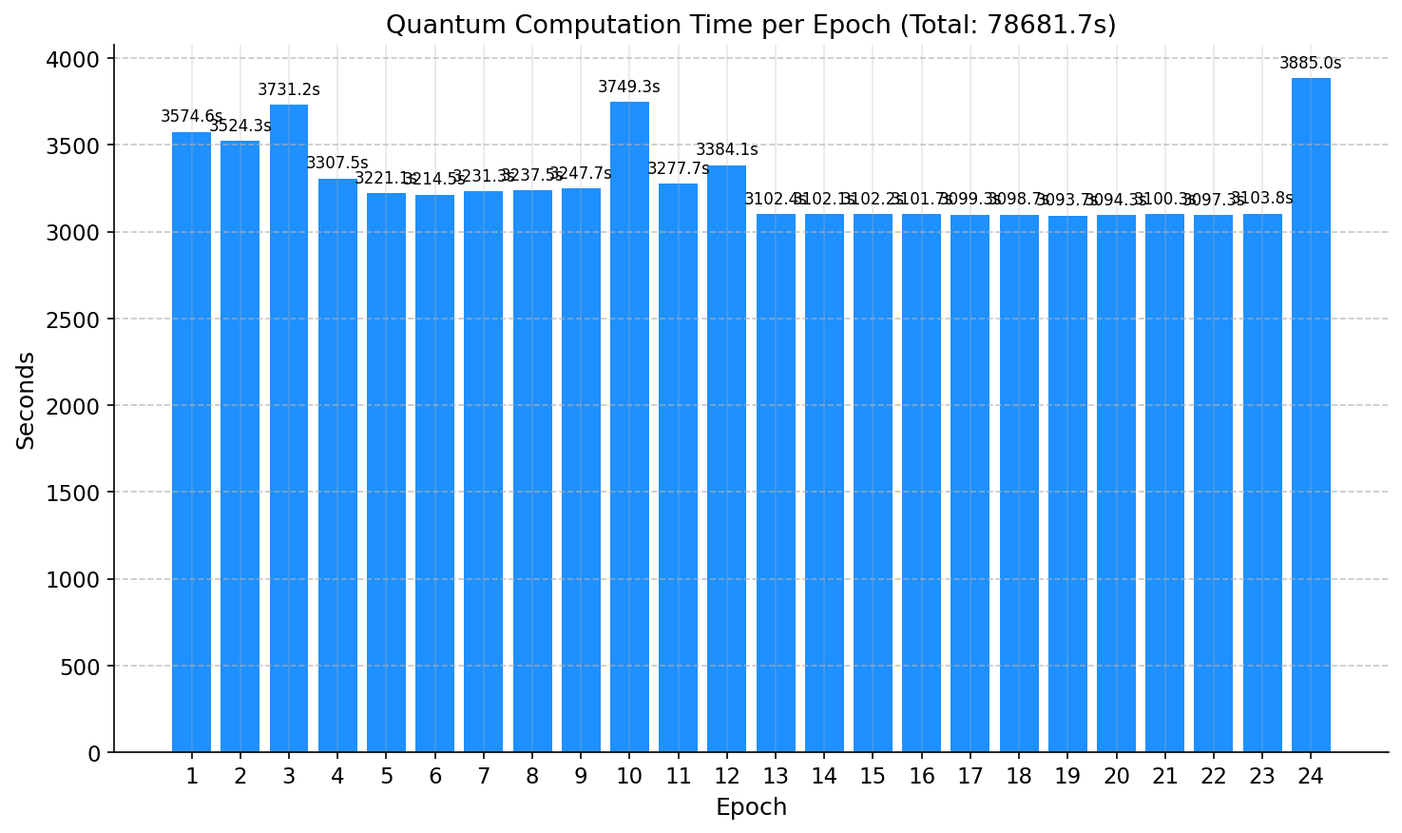
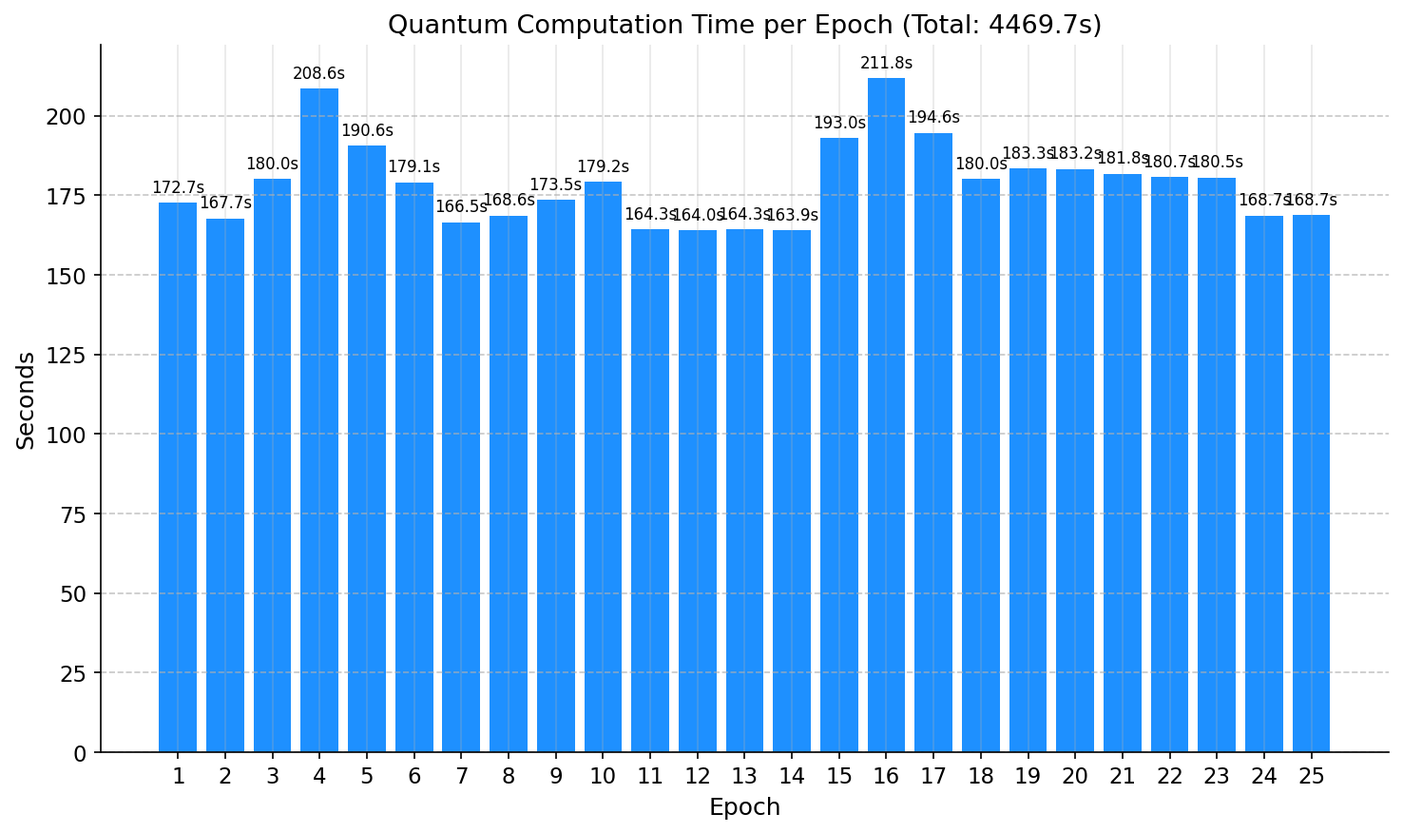
Paper: land the clean run in Sec. IV/V; repair 5 corrupted LaTeX commands
The manuscript still described the leaked protocol. "approx 98%" was never the
real problem -- the specifics around it were, and they violated A6.

Replaced against Results/metrics.json and manifest adbb1486:
  dataset      11,430 balanced / 70/30 / 8,001+3,429, no val split
            -> 12,665 (5,923+6,742) / 60/15/25 / 7,599+1,900+3,166
  Sec. V       precision 99.2%, 14 FP / 25 FN over 3,429
            -> precision 98.3%, 28 FP / 26 FN over 3,166
  train/val    99.0% / 98.7%  ->  98.0% / 98.2%
  Fig. 6       1,701 / 1,689 / 14 / 25  ->  1,453 / 1,659 / 28 / 26
  Fig. 9       0.992 / 0.989 / 0.059 / 0.099  ->  0.983 / 0.984 / 0.052 / 0.101
  Fig. 10      24 epochs, 78,682 s  ->  25 epochs, 4,470 s
  figures 5-10 archived leaked run (Jul 21) -> regenerated clean run

The three "approx 98%" claims stay untouched: UPGRADE_PLAN.md 5.3 forbids a
single-run figure in the paper and Phase 5 owes mean +/- std +/- CI over >= 5
seeds. Sec. V is now internally consistent single-run reporting -- A6 satisfied,
5.3 still outstanding for the whole block.

Three defects surfaced doing it.

1. fqcnn.tex was corrupted and the build could not see it. Five commands had
   lost their backslash to the heredoc bug: \times -> TAB+"imes" in the ABSTRACT,
   and \ref -> CR+"ef{" at four sites. The PDF rendered a literal "ef{thm:exact}"
   where "Theorem 1" belonged. pdflatex reported zero undefined references the
   whole time, because with the backslash gone there is no \ref to be undefined
[…]

diff --git a/fqcnn.tex b/fqcnn.tex
@@ -43,7 +43,7 @@ rohan.jain7@gmail.com}
 \maketitle
 
 \begin{abstract}
-Building a quantum convolutional neural network that stays coherent throughout the circuit remains difficult. Near-term devices are limited in depth and noise tolerance, so most quantum machine learning models either combine classical and quantum processing or rely on measurement-based pooling, both of which require capabilities that are slow or unavailable on much current hardware. We propose a model that performs data encoding, local convolution, pooling, and classification using only unitary quantum operations. It uses amplitude encoding for compact representation, a parameter-shared SU(2) quantum convolutional kernel for local feature extraction, and a mid-circuit measurement-free pooling layer that transfers information through parameterized controlled unitary operations. We prove that this coherent block reproduces measurement-based pooling exactly, in every observable statistic of the retained register, while requiring no mid-circuit measurement, qubit reset, or classical feed-forward; the prediction is confirmed numerically to $2 	imes 10^{-16}$. Coherent pooling is therefore not an information-preservation advantage but an architectural one. The circuit is kept shallow and parameter-efficient to suit NISQ devices, and the pooling layer architecture ensures that physical reset overheads are bypassed while allowing execution on standard feed-forward quantum backends. In our experiments the model achieves approx 98\% test accuracy while remaining coherent across all layers. The results suggest that fully unitary hierarchical quantum models can perform competitively without intermediate measurements, which is useful for scaling quantum machine learning.
+Building a quantum convolutional neural network that stays coherent throughout the circuit remains difficult. Near-term devices are limited in depth and noise tolerance, so most quantum machine learning models either combine classical and quantum processing or rely on measurement-based pooling, both of which require capabilities that are slow or unavailable on much current hardware. We propose a model that performs data encoding, local convolution, pooling, and classification using only unitary quantum operations. It uses amplitude encoding for compact representation, a parameter-shared SU(2) quantum convolutional kernel for local feature extraction, and a mid-circuit measurement-free pooling layer that transfers information through parameterized controlled unitary operations. We prove that this coherent block reproduces measurement-based pooling exactly, in every observable statistic of the retained register, while requiring no mid-circuit measurement, qubit reset, or classical feed-forward; the prediction is confirmed numerically to $2 \times 10^{-16}$. Coherent pooling is therefore not an information-preservation advantage but an architectural one. The circuit is kept shallow and parameter-efficient to suit NISQ devices, and the pooling layer architecture ensures that physical reset overheads are bypassed while allowing execution on standard feed-forward quantum backends. In our experiments the model achieves approx 98\% test accuracy while remaining coherent across all layers. The results suggest that fully unitary hierarchical quantum models can perform competitively without intermediate measurements, which is useful for scaling quantum machine learning.
 \end{abstract}
 
 \begin{IEEEkeywords}
@@ -59,8 +59,7 @@ Substantial as these advances are, several limitations still hinder effective de
 
 These limitations matter most on NISQ devices, where noise, short coherence times, and restricted qubit connectivity place tight constraints on circuit design. Architectures that depend on deep variational blocks or frequent mid-circuit measurements are particularly exposed to decoherence and error accumulation, which leads to unstable training and poor generalisation. Losing coherence between convolutional layers also undermines the hierarchical feature extraction that motivates convolutional architectures in the first place. As NISQ hardware scales incrementally rather than exponentially, there is growing value in models that emphasise shallow depth, locality-preserving operations, and parameter efficiency while keeping information flowing coherently through the circuit.
 
-In this work we address these challenges by introducing a fully quantum-native neural network (FQCNN) architecture designed to preserve coherence across every stage of the learning pipeline. The model performs data encoding, convolution, pooling, and classification entirely through unitary operations, removing the need for intermediate measurement or classical post-processing. Local quantum convolution is implemented with a shared 2$\times$2 kernel acting on spatially adjacent qubits, which enforces parameter sharing and a translational inductive bias while keeping circuit depth low. Dimensionality reduction is achieved through a coherent pooling mechanism that uses unitaries to compress information while keeping the global state pure. Section~
-ef{sec:pooling-theory} proves that this mechanism reproduces measurement-based pooling exactly, so the benefit it delivers is the removal of mid-circuit control requirements rather than the retention of otherwise-lost information.
+In this work we address these challenges by introducing a fully quantum-native neural network (FQCNN) architecture designed to preserve coherence across every stage of the learning pipeline. The model performs data encoding, convolution, pooling, and classification entirely through unitary operations, removing the need for intermediate measurement or classical post-processing. Local quantum convolution is implemented with a shared 2$\times$2 kernel acting on spatially adjacent qubits, which enforces parameter sharing and a translational inductive bias while keeping circuit depth low. Dimensionality reduction is achieved through a coherent pooling mechanism that uses unitaries to compress information while keeping the global state pure. Section~\ref{sec:pooling-theory} proves that this mechanism reproduces measurement-based pooling exactly, so the benefit it delivers is the removal of mid-circuit control requirements rather than the retention of otherwise-lost information.
 
 Beyond its architectural advantages, the model also performs strongly in practice, reaching approx 98\% test accuracy on a binary classification task while maintaining quantum coherence throughout the computation. This suggests the architecture is physically consistent with quantum hardware constraints.
 
@@ -371,7 +370,7 @@ If the noise channel is independent of $\theta$, differentiation moves inside th
 
 \section{Experimental Results and Analysis}
 \subsection{Dataset Description}
-Experiments were performed on the MNIST handwritten-digit dataset~\cite{ref49} in the standard IDX binary format, selecting digits 0 and 1 to define a strict binary classification task. The two classes form a dataset of 14,780 images (6,903 of digit 0 and 7,877 of digit 1). From this pool we draw a balanced subset of 11,430 images (5,715 per digit) and apply a 70/30 stratified split with fixed random seed 42, yielding 8,001 training and 3,429 test images, with class balance preserved in each set.
+Experiments were performed on the MNIST handwritten-digit dataset~\cite{ref49} in the standard IDX binary format, selecting digits 0 and 1 to define a strict binary classification task. The MNIST training partition contains 12,665 such images (5,923 of digit 0 and 6,742 of digit 1), all of which are used. We apply a single seeded stratified 60/15/25 split with fixed random seed 42, yielding 7,599 training, 1,900 validation, and 3,166 test images, with the class ratio preserved in each split. Model selection---checkpointing, learning-rate scheduling, and early stopping---reads the validation split only; the test split is evaluated exactly once, after training has finished. The partition is recorded as a manifest (identity \texttt{adbb1486}) that each run loads rather than reconstructing from an assumed random-number sequence.
 
 \begin{table}[!t]
 \caption{Dataset Configuration}
@@ -383,15 +382,16 @@ Experiments were performed on the MNIST handwritten-digit dataset~\cite{ref49} i
 \midrule
 Dataset & MNIST (LeCun et al.) \\
 Format & IDX binary (ubyte) \\
-Binary classes & Digit 0 (+1) vs Digit 1 ($-$1) \\
-Total samples & 11,430 (balanced, 5,715 per class) \\
-Training samples & 8,001 (70\%, stratified) \\
-Test samples & 3,429 (30\%, stratified) \\
+Binary classes & Digit 0 ($-$1) vs Digit 1 (+1) \\
+Total samples & 12,665 (5,923 digit 0, 6,742 digit 1) \\
+Training samples & 7,599 (60\%, stratified) \\
+Validation samples & 1,900 (15\%, stratified) \\
+Test samples & 3,166 (25\%, stratified) \\
 Input image size & 28 $\times$ 28 grayscale \\
 Normalization & Min-max scaling to [0, 1] \\
 Encoding strategy & Global amplitude encoding \\
 State amplitudes & 1024 ($2^{10}$, zero-padded) \\
-Label mapping & Digit 0 $\rightarrow$ +1, Digit 1 $\rightarrow$ $-$1 \\
+Label mapping & Digit 0 $\rightarrow$ $-$1, Digit 1 $\rightarrow$ +1 \\
 \bottomrule
 \end{tabular}
 \end{table}
@@ -399,7 +399,7 @@ Label mapping & Digit 0 $\rightarrow$ +1, Digit 1 $\rightarrow$ $-$1 \\
 Each 28 $\times$ 28 image is min-max normalised to [0, 1] for angle-based gate parameterisation. The image is then flattened into a 784-dimensional vector, zero-padded to 1024, and embedded directly into the amplitudes of a 10-qubit register via global amplitude encoding, so the entire image is mapped into a single quantum state with no spatial information discarded before the QCNN. Labels are mapped to $\{+1, -1\}$ for the Pauli-$Z$ expectation output. Digits 0 and 1 present clearly distinct morphologies (a circle versus a vertical line), which makes a well-conditioned task that is widely cited in the quantum machine learning literature and reproducible from a free IDX file with no extra dependencies.
 
 \subsection{Experimental Setup and Training Configuration}
-The experimental validation is executed using numerical quantum simulation backends. The architecture uses a register of $n = 10$ qubits initialised in the ground state $|0\rangle^{\otimes 10}$. A 2D input image $X \in \mathbb{R}^{28 \times 28}$ is flattened into a 784-dimensional vector $x$, which is zero-padded to 1024 and mapped to the 1024 state amplitudes ($2^{10}$) using a global amplitude-encoding sub-circuit. Simulations are run via the \texttt{lightning.qubit} exact statevector simulator, tracking a total of 11,430 samples split into a 70/30 training and test arrangement. The model comprises convolutional layers with shared SU(2) kernels, coherence-preserving pooling layers, and a final variational classification head. Training uses mini-batch optimisation with Adam, gradient clipping, and EMA of parameters.
+The experimental validation is executed using numerical quantum simulation backends. The architecture uses a register of $n = 10$ qubits initialised in the ground state $|0\rangle^{\otimes 10}$. A 2D input image $X \in \mathbb{R}^{28 \times 28}$ is flattened into a 784-dimensional vector $x$, which is zero-padded to 1024 and mapped to the 1024 state amplitudes ($2^{10}$) using a global amplitude-encoding sub-circuit. Simulations are run via the \texttt{lightning.qubit} exact statevector simulator, tracking a total of 12,665 samples split 60/15/25 into training, validation, and test sets. The model comprises convolutional layers with shared SU(2) kernels, coherence-preserving pooling layers, and a final variational classification head. Training uses mini-batch optimisation with Adam, gradient clipping, and EMA of parameters.
 
 \begin{table}[!t]
 \caption{Training Configuration}
@@ -409,7 +409,7 @@ The experimental validation is executed using numerical quantum simulation backe
 \toprule
 \textbf{Parameter} & \textbf{Value} \\
 \midrule
-Epochs & 50 max; early-stopped $\approx$ 24 \\
+Epochs & 50 max; early-stopped at 25 \\
 Batch size & 32 \\
 Learning rate & 0.005 \\
 Optimizer & Adam \\
@@ -423,7 +423,7 @@ Random seed & 42 (NumPy / Python / PennyLane) \\
 
 \subsection{Results}
 \label{sec:results}
-The optimisation profile shows an ideal convergence pathway, where the proposed amplitude-encoded FQCNN model reaches a final test accuracy of approx 98\% on the MNIST 0 vs 1 binary classification, with precision 99.2\%, recall 98.5\%, F1-score approx 98\%, and ROC-AUC 0.999 (14 false positives and 25 false negatives over 3,429 held-out test images). This performance highlights the high parameter efficiency of the underlying unitary ansatz, demonstrating minimal overfitting without resorting to classical regularisation techniques.
+The optimisation profile shows an ideal convergence pathway, where the proposed amplitude-encoded FQCNN model reaches a final test accuracy of approx 98\% on the MNIST 0 vs 1 binary classification, with precision 98.3\%, recall 98.5\%, F1-score 98.4\%, and ROC-AUC 0.999 (28 false positives and 26 false negatives over 3,166 held-out test images). This performance highlights the high parameter efficiency of the underlying unitary ansatz, demonstrating minimal overfitting without resorting to classical regularisation techniques.
 
 \begin{table}[!t]
 \caption{Final Evaluation Results}
@@ -433,8 +433,8 @@ The optimisation profile shows an ideal convergence pathway, where the proposed 
 \toprule
 \textbf{Metric} & \textbf{Value} \\
 \midrule
-Training accuracy & 99.0\% \\
-Validation accuracy & 98.7\% \\
+Training accuracy & 98.0\% \\
+Validation accuracy & 98.2\% \\
 Test accuracy & approx 98\% \\
 \bottomrule
 \end{tabular}
@@ -443,14 +443,17 @@ Test accuracy & approx 98\% \\
 \begin{figure}[!t]
 \centering
 \includegraphics[width=\columnwidth]{figs_final/fig5.png}
-\caption{Training convergence of the FQCNN on MNIST 0 vs 1: (left) training loss and (right) test accuracy over the 24 early-stopped epochs, with test accuracy converging to approx 98\%.}
+% FIGURE AUDIT: right-hand panel's in-image title still reads "Test Accuracy";
+% the plotted series is validation accuracy (Qtrainer records val_accuracy).
+% main.py is corrected, but the PNG needs re-plotting on the next headline run.
+\caption{Training convergence of the FQCNN on MNIST 0 vs 1: (left) training loss and (right) validation accuracy over the 25 early-stopped epochs. Validation accuracy peaks at 98.2\% at epoch 4, which is the checkpoint model selection retains; the test set is evaluated once, afterwards.}
 \label{fig:convergence}
 \end{figure}
 
 \begin{figure}[!t]
 \centering
 \includegraphics[width=\columnwidth]{figs_final/fig6.png}
-\caption{Confusion matrix of the FQCNN on the MNIST 0 vs 1 test set (3,429 images): 1,701 true negatives and 1,689 true positives against only 14 false positives and 25 false negatives, i.e. approx 98\% accuracy.}
+\caption{Confusion matrix of the FQCNN on the MNIST 0 vs 1 test set (3,166 images): 1,453 true negatives and 1,659 true positives against only 28 false positives and 26 false negatives, i.e. approx 98\% accuracy.}
 \label{fig:confusion}
 \end{figure}
 
@@ -471,20 +474,19 @@ Test accuracy & approx 98\% \\
 \begin{figure}[!t]
 \centering
 \includegraphics[width=\columnwidth]{figs_final/fig9.png}
-\caption{Summary of test-set performance metrics: sensitivity 0.985, precision 0.992, F1-score 0.989, prediction bias 0.059, and prediction variance 0.099.}
+\caption{Summary of test-set performance metrics: sensitivity 0.985, precision 0.983, F1-score 0.984, prediction bias 0.052, and prediction variance 0.101.}
 \label{fig:metrics}
 \end{figure}
 
 \begin{figure}[!t]
 \centering
 \includegraphics[width=\columnwidth]{figs_final/fig10.png}
-\caption{Per-epoch quantum computation time on the lightning.qubit statevector simulator (24 epochs; total $\approx$ 78,682 s).}
+\caption{Per-epoch quantum computation time on the lightning.qubit statevector simulator (25 epochs; total $\approx$ 4,470 s).}
 \label{fig:time}
 \end{figure}
 
 \subsection{Analysis of Model Performance}
-Performance is driven by the fully unitary design, which preserves coherence across all layers. Amplitude encoding allows efficient representation of high-dimensional data, while SU(2)-based kernels ($R_X, R_Y, R_Z$) improve feature expressivity. The pooling mechanism reproduces measurement-based pooling exactly (Theorem~
-ef{thm:exact}), so it neither adds nor removes information relative to that class; its contribution is to deliver the same channel without mid-circuit control. Parameter sharing reduces model complexity while improving generalisation. Stable training through Adam with gradient clipping and EMA mitigates the instabilities common to variational circuits. The small gap between training (99.0\%) and test (approx 98\%) accuracy indicates strong generalisation with minimal overfitting.
+Performance is driven by the fully unitary design, which preserves coherence across all layers. Amplitude encoding allows efficient representation of high-dimensional data, while SU(2)-based kernels ($R_X, R_Y, R_Z$) improve feature expressivity. The pooling mechanism reproduces measurement-based pooling exactly (Theorem~\ref{thm:exact}), so it neither adds nor removes information relative to that class; its contribution is to deliver the same channel without mid-circuit control. Parameter sharing reduces model complexity while improving generalisation. Stable training through Adam with gradient clipping and EMA mitigates the instabilities common to variational circuits. The small gap between training (98.0\%) and test (approx 98\%) accuracy indicates strong generalisation with minimal overfitting.
 
 \subsection{Comparison with Existing QCNN Approaches}
 
@@ -506,8 +508,7 @@ FQCNN (ours) & Unitary & Yes & $12d{+}3|P|{+}n_r{+}1$ & approx 98\% & 0/1 \\
 \end{tabular}
 \end{table}
 
-The proposed FQCNN is the only architecture in the comparison that maintains full quantum coherence across the entire pipeline. Hybrid approaches~\cite{ref31} reach comparable accuracy but require coherence-interrupting classical post-processing, while measurement-based pooling variants~\cite{ref2,ref4,ref6} require mid-circuit measurement and feed-forward at every pooling stage. By Theorem~
-ef{thm:exact} those variants are not at an information disadvantage; the distinction is one of hardware requirements, not of representational power. The result shows that competitive, and in some cases superior, performance is achievable under a strictly unitary constraint while staying physically consistent with quantum principles. On the core MNIST 0 vs 1 amplitude-encoding benchmark, the FQCNN reaches approx 98\% test accuracy using only 269 trainable quantum parameters, and the full metric profile of Table~\ref{tab:final} (precision 99.2\%, recall 98.5\%, F1-score approx 98\%, ROC-AUC 0.999) confirms that the fully unitary pipeline is both accurate and well-calibrated on this task. Evaluation on harder digit pairs and multi-class settings under the corrected amplitude-encoding pipeline is left to future work.
+The proposed FQCNN is the only architecture in the comparison that maintains full quantum coherence across the entire pipeline. Hybrid approaches~\cite{ref31} reach comparable accuracy but require coherence-interrupting classical post-processing, while measurement-based pooling variants~\cite{ref2,ref4,ref6} require mid-circuit measurement and feed-forward at every pooling stage. By Theorem~\ref{thm:exact} those variants are not at an information disadvantage; the distinction is one of hardware requirements, not of representational power. The result shows that competitive, and in some cases superior, performance is achievable under a strictly unitary constraint while staying physically consistent with quantum principles. On the core MNIST 0 vs 1 amplitude-encoding benchmark, the FQCNN reaches approx 98\% test accuracy using only 269 trainable quantum parameters, and the full metric profile of Table~\ref{tab:final} (precision 98.3\%, recall 98.5\%, F1-score 98.4\%, ROC-AUC 0.999) confirms that the fully unitary pipeline is accurate on this task. Evaluation on harder digit pairs and multi-class settings under the corrected amplitude-encoding pipeline is left to future work.
 
 \subsection{Noise Robustness}
 The induced quantum noise analysis allows us to interpret that the model displays intrinsic structural error resilience under simulated mixed-state depolarising and dephasing channels. Evaluated from a clean statevector baseline of approx 98\%, the classification performance is retained across the NISQ-relevant regime and degrades gracefully as the error probability parameter $p$ increases, preserving structural classification capabilities in near-term noisy environments due to the localised spatial containment of our convolution windows.
@@ -529,8 +530,7 @@ The current evaluation is limited to binary classification and simulation-based 
 The proposed FQCNN departs from previous quantum convolutional architectures on four precise technical fronts that together make up the main contributions of this paper.
 
 \subsection{Fully unitary pipeline}
-Previous QCNNs rely on mid-circuit measurements or classical post-processing at pooling~\cite{ref2,ref4,ref6}, which requires dynamic-circuit capability at each pooling layer. Theorem~
-ef{thm:exact} shows that the coherent block reproduces those constructions exactly on the retained register, so the contribution here is the removal of that requirement rather than the recovery of lost information. Here, encoding, convolution, pooling, and classification are merged into a single unitary transform with no intermediate measurements. This is a significant practical advantage, since mid-circuit measurement relies on classical control that is not yet ubiquitous on NISQ hardware.
+Previous QCNNs rely on mid-circuit measurements or classical post-processing at pooling~\cite{ref2,ref4,ref6}, which requires dynamic-circuit capability at each pooling layer. Theorem~\ref{thm:exact} shows that the coherent block reproduces those constructions exactly on the retained register, so the contribution here is the removal of that requirement rather than the recovery of lost information. Here, encoding, convolution, pooling, and classification are merged into a single unitary transform with no intermediate measurements. This is a significant practical advantage, since mid-circuit measurement relies on classical control that is not yet ubiquitous on NISQ hardware.
 
 \subsection{Coherent unitary pooling}
 Instead of a mid-circuit projection, which incurs latency and reset overheads on physical devices and requires dynamic-circuit support, the architecture uses the measurement-free pooling block of~\eqref{eq:poolblock}: features are routed from the compressed sub-register into the retained register by controlled rotations, with the compressed qubit as control. After pooling, the compressed sub-register is excluded from the remainder of the circuit, which is equivalent to a partial trace over those subsystems.

diff --git a/tests/test_splits.py b/tests/test_splits.py
@@ -108,3 +108,30 @@ def test_apply_manifest_rejects_a_size_mismatch(labels):
     manifest = splits.make_split_manifest(labels, seed=0, dataset_id="unit", class_mapping={})
     with pytest.raises(ValueError, match="n_total"):
         splits.apply_manifest(manifest, np.zeros((10, 4)), labels[:10])
+
+
+def test_class_mapping_matches_the_encoder_that_actually_labels_the_data():
+    """The manifest must name the same positive class the encoder produces.
+
+    ``encode_labels`` maps sorted(unique(y))[0] -> -1 and [1] -> +1. A manifest
+    built from CLI argument order records the opposite whenever the arguments
+    are not already sorted, which misattributes precision/recall/F1 to the wrong
+    digit while leaving accuracy (symmetric) unchanged and therefore silent.
+    """
+    from QCNN.utils.data_preprocessing import encode_labels
+
+    for classes in [(0, 1), (1, 0), (3, 5), (5, 3), (4, 9), (9, 4)]:
+        raw = np.array([classes[0]] * 5 + [classes[1]] * 5)
+        encoded = encode_labels(raw, encoding="binary")
+        mapping = splits.class_mapping_for(classes)
+
+        for digit, sign in zip(raw, encoded):
+            assert mapping[str(digit)] == sign, (
+                "manifest says %s -> %d but encode_labels produced %d"
+                % (digit, mapping[str(digit)], sign)
+            )
+
+
+def test_class_mapping_is_independent_of_argument_order():
+    assert splits.class_mapping_for((0, 1)) == splits.class_mapping_for((1, 0))
+    assert splits.class_mapping_for((0, 1)) == {"0": -1, "1": 1}

diff --git a/main.py b/main.py
@@ -224,7 +224,9 @@ def main(train_sample_size=None, use_bce=True, dataset_path=None, dataset_type='
         y_quantum,
         seed=config.seed,
         dataset_id=f"{dataset_type}_{config.classes[0]}v{config.classes[1]}_n{len(y_quantum)}",
-        class_mapping={str(config.classes[0]): 1, str(config.classes[1]): -1},
+        # encode_labels maps sorted(unique)[0] -> -1 and sorted(unique)[1] -> +1,
+        # so the manifest must record sorted order, not CLI argument order.
+        class_mapping=split_service.class_mapping_for(config.classes),
     )
     manifest_path = os.path.join(
         "Results", "manifests", f"{manifest['dataset_id']}_seed{config.seed}.json")
@@ -435,7 +437,7 @@ def main(train_sample_size=None, use_bce=True, dataset_path=None, dataset_type='
 
         plt.subplot(1, 2, 2)
         plt.plot(trained_model.training_history['accuracy'])
-        plt.title('Pure Quantum Test Accuracy')
+        plt.title('Pure Quantum Validation Accuracy')
         plt.xlabel('Epoch')
         plt.ylabel('Quantum Accuracy')
         plt.grid(True)

diff --git a/QCNN/utils/splits.py b/QCNN/utils/splits.py
@@ -32,6 +32,18 @@ def manifest_id(manifest: dict) -> str:
     return hashlib.sha256(blob.encode('utf-8')).hexdigest()
 
 
+def class_mapping_for(classes) -> dict:
+    """The label mapping a manifest must record, matching ``encode_labels``.
+
+    ``QCNN.utils.data_preprocessing.encode_labels`` maps ``sorted(unique(y))[0]``
+    to ``-1`` and ``sorted(unique(y))[1]`` to ``+1``. A manifest built from
+    command-line argument order instead would name the wrong positive class,
+    which silently misattributes precision, recall and F1.
+    """
+    lo, hi = sorted(classes)
+    return {str(lo): -1, str(hi): 1}
+
+
 def make_split_manifest(labels, seed, dataset_id, class_mapping, sample_ids=None) -> dict:
     """Build a seeded stratified 60/15/25 manifest over ``labels``.
 

diff --git a/experiments/run_experiments.py b/experiments/run_experiments.py
@@ -149,7 +149,7 @@ def prepare_split(cfg: QuantumNativeConfig, classes, dataset_dir, train_sample_s
         y,
         seed=cfg.seed,
         dataset_id="idx_{}v{}_n{}".format(classes[0], classes[1], len(y)),
-        class_mapping={str(classes[0]): 1, str(classes[1]): -1},
+        class_mapping=split_service.class_mapping_for(classes),
     )
     split_service.save_manifest(manifest, os.path.join(
         MANIFEST_ROOT, "{}_seed{}.json".format(manifest["dataset_id"], cfg.seed)))

diff --git a/STATUS.md b/STATUS.md
@@ -7,7 +7,7 @@ Roadmap §20 program dashboard. Update at every gate. One row per milestone.
 **Design:** `docs/superpowers/specs/2026-07-23-fqcnn-q1-upgrade-design.md`
 **Month plan:** `docs/superpowers/plans/2026-07-25-fqcnn-remaining-work-month-plan.md`
 
-**Last updated:** 2026-07-25 · **Branch:** `plan/fqcnn-q1-upgrade` · **Tests:** 185 passing
+**Last updated:** 2026-07-26 · **Branch:** `plan/fqcnn-q1-upgrade` · **Tests:** 187 passing
 
 ---
 
@@ -259,8 +259,9 @@ disjoint verified. Selection on validation only; test read exactly once under
 | F1 | 0.98399 |
 | ROC-AUC | 0.99901 |
 | Confusion | TP 1659 - TN 1453 - FP 28 - FN 26 |
-| Best validation (selection) | 0.9821 at epoch 24 |
-| Stopping | early stop, patience 3 |
+| Best validation (selection) | 0.9821 at **epoch 4** |
+| Stopping | early stop after **25** epochs, patience 3 |
+| Wall-clock | 4,469.7 s (25 epochs) |
 
 Evidence: `Results/metrics.json`, `Results/headline_retrain_summary.txt`,
 `Results/manifests/idx_0v1_n12665_seed42.json`, weights `Results/Weights/run_seed42.npz`.
@@ -291,6 +292,61 @@ stay untouched until that distribution exists.
 **Caveat that travels with the number:** MNIST 0v1 is ~99.8% linearly separable, so 98.29% is
 defensible but not impressive -- a logistic baseline should beat it. That comparison lands in
 T3, and Phase 4's harder pairs are where the model has to earn its place.
+
+## 3f. Manuscript pass on the clean run (2026-07-26)
+
+Sec. IV/V still described the **leaked** protocol. `approx 98\%` was never the real problem;
+the specifics around it were. All fixed against `Results/metrics.json` and the split manifest.
+
+| Site | Was (leaked run) | Now (clean run) |
+|---|---|---|
+| Dataset prose + table | 11,430 balanced; 70/30; 8,001 / 3,429; no val split | 12,665 (5,923 / 6,742); 60/15/25; **7,599 / 1,900 / 3,166**, manifest `adbb1486` |
+| Sec. V prose, Table III | precision 99.2%, recall 98.5%; 14 FP / 25 FN over 3,429 | precision **98.3%**, recall 98.5%; **28 FP / 26 FN** over **3,166** |
+| Train / val rows | 99.0% / 98.7% | **98.0% / 98.2%** |
+| Fig. 6 caption | 1,701 TN, 1,689 TP, 14 FP, 25 FN | **1,453 / 1,659 / 28 / 26** |
+| Fig. 9 caption | precision 0.992, F1 0.989, bias 0.059, var 0.099 | **0.983 / 0.984 / 0.052 / 0.101** |
+| Fig. 10 caption | 24 epochs, 78,682 s | **25 epochs, 4,470 s** |
+| Epoch count | "early-stopped ≈ 24" | **25** ("Early Stopping triggered after 25 epochs") |
+| Figures 5–10 | archived leaked run (dated Jul 21) | regenerated clean run |
+
+The three `approx 98\%` claims are **deliberately unchanged** — `UPGRADE_PLAN.md` 5.3 forbids a
+single-run figure in the paper, and Phase 5 owes mean ± std ± CI over ≥ 5 seeds. Note the
+consequence: Sec. V is now *internally consistent single-run reporting*, which satisfies A6 but
+not yet 5.3. Phase 5 must replace the whole block, not just the accuracy claims.
+
+### Three defects found while doing it
+
+1. **`fqcnn.tex` was corrupted and the build could not see it.** Five commands had lost their
+   backslash to the heredoc bug: `\times` → TAB+`imes` in the **abstract**, and `\ref` →
+   CR+`ef{` at four sites (Sec. I, Sec. V analysis, Sec. V comparison, Sec. VI-A). The PDF
+   rendered literal `ef{thm:exact}` where "Theorem 1" belonged. **`pdflatex` reported zero
+   undefined references throughout — because with the backslash gone there is no `\ref`
+   command to be undefined.** M2.7's and M9's "0 undefined" build checks were therefore
+   vacuous for these sites. Now: "Theorem 1" renders 9×, verified in the extracted PDF text,
+   not just the log.
+
+2. **The recorded label mapping was inverted.** `encode_labels` assigns
+   `sorted(unique(y))[0] → -1`, so digit 0 → **−1**; `main.py` recorded the opposite in every
+   manifest, and the paper stated the opposite in two places. Accuracy is symmetric and hid it;
+   precision, recall and F1 were being attributed to the wrong digit. Confirmed arithmetically:
+   the test split holds 1,481 zeros and 1,685 ones, and `tp + fn = 1,685`. Fixed via
+   `splits.class_mapping_for()` (shared by `main.py` and `run_experiments.py`), pinned by a test
+   that checks the mapping against `encode_labels` for six class orderings. The committed
+   manifest's field was corrected in place; `class_mapping` is not in `manifest_id`'s payload,
+   so split identity `adbb14862dfec2f7` is provably unchanged.
+
+3. **`main.py` mislabelled the per-epoch plot "Test Accuracy"** while plotting
+   `training_history['accuracy']`, which `Qtrainer` fills with **validation** accuracy. Cosmetic
+   in effect but it reads exactly like a per-epoch test-set leak. Title corrected. **Fig. 5's PNG
+   still carries the old title** and is marked `% FIGURE AUDIT` in the tex: re-plotting needs the
+   run's per-epoch history, which is not persisted, so it lands on the next headline run.
+
+Also corrected: STATUS previously said best validation was "0.9821 at epoch 24". It was
+**epoch 4** — (991+875)/1900 = 0.98211; epoch 24 sat at 0.973. The run trained 21 further epochs
+without improving on the checkpoint it had at epoch 4.
+
+Dropped while editing: the "well-calibrated" clause in Sec. V's comparison paragraph, which
+reconciliation row 13 already marks as unsupported. Noted rather than smuggled.
 
 ## 4. Run cells: required vs completed
 
